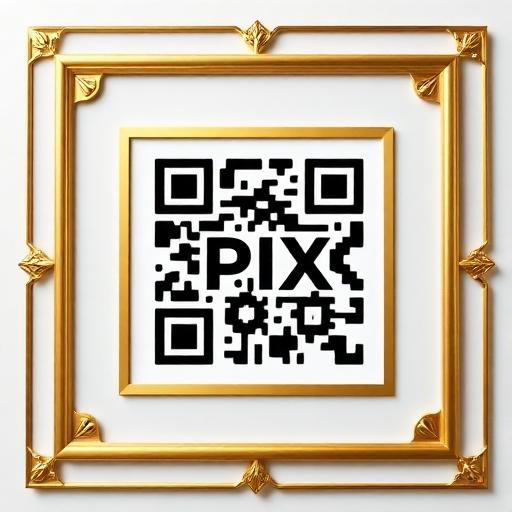
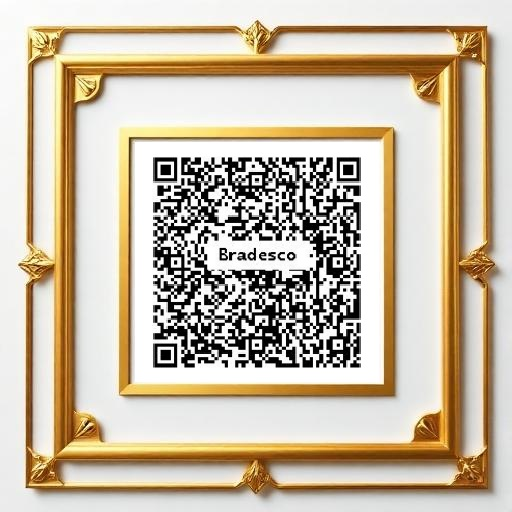
add novos itens

Changed region(s): [[0.2812, 0.2812, 0.7188, 0.7188]]

diff --git a/src/pages/Index.tsx b/src/pages/Index.tsx
@@ -10,6 +10,21 @@ import netflixFund from "@/assets/netflix-fund.jpg";
 import remotePeace from "@/assets/remote-peace.jpg";
 import honeymoon from "@/assets/honeymoon.jpg";
 import therapy from "@/assets/therapy.jpg";
+import roloMacarrao from "@/assets/rolo-macarrão.png";
+import capaceteRoloMacarrao from "@/assets/capacete-macarrao.png";
+import simSenhora from "@/assets/simsenhor.png";
+import videoGame from "@/assets/518xzDbfWbL.png";
+import extintor from "@/assets/extintor.png";
+import paciencia from "@/assets/tolerato-de-paci25C325AAncia.png";
+import nada from "@/assets/nada11-1.png";
+import oculos from "@/assets/oculos.png";
+import antiTpm from "@/assets/antiTpm.png";
+import cobertor from "@/assets/cobertor.png";
+import seguro from "@/assets/seguro.png";
+import desculpa from "@/assets/desculpa.png";
+import quantoCusta from "@/assets/quantoCusta.png";
+import top1 from "@/assets/top1.png";
+import pcGamer from "@/assets/pc.webp";
 
 const Index = () => {
   const [isModalOpen, setIsModalOpen] = useState(false);
@@ -21,42 +36,118 @@ const Index = () => {
   };
 
   const gifts = [
-    {
-      title: "Fundo Pizza de Sexta",
-      description: "Porque todo casal precisa de uma pizza sagrada no fim de semana!",
-      image: pizzaFund,
-    },
-    {
-      title: "Kit Sobrevivência Conjugal",
-      description: "Pacote completo para sobreviver aos primeiros anos juntos com humor!",
-      image: survivalKit,
-    },
-    {
-      title: "Netflix & Discussão Zero",
-      description: "Garantir que nunca falte série pra assistir juntos (e debater depois)!",
-      image: netflixFund,
-    },
-    {
-      title: "Tratado de Paz do Controle Remoto",
-      description: "Para evitar guerras desnecessárias pela escolha do canal!",
-      image: remotePeace,
-    },
-    {
-      title: "Lua de Mel Atrasada",
-      description: "Aquela viagem dos sonhos que ficou pra depois... agora pode acontecer!",
-      image: honeymoon,
-    },
-    {
-      title: "Terapia de Casal (Preventiva)",
-      description: "Porque prevenir é melhor que remediar... e rir é o melhor remédio!",
-      image: therapy,
-    },
-  ];
+  {
+    title: "Rolo de Macarrão Para Noiva",
+    description: "Ferramenta multiuso: culinária e controle emocional.",
+    image: roloMacarrao,
+  },
+  {
+    title: "Capacete Contra Rolo de Macarrão Para o Noivo",
+    description: "Equipamento de segurança para o noivo prevenido",
+    image: capaceteRoloMacarrao,
+  },
+  {
+    title: "PC Gamer da Paz Conjugal",
+    description: "Equipado com botão de emergência: pausa automática quando ela chama.",
+    image: pcGamer,
+  },
+  {
+    title: "Curso Intensivo de Sim, Senhora!",
+    description: "100% de aprovação entre as noivas",
+    image: simSenhora,
+  },
+  {
+    title: "Alvará Para Jogar Videogame",
+    description: "Documento raro e de grande valor sentimental.",
+    image: videoGame,
+  },
+  {
+    title: "Extintor de DR",
+    description: "Apague incêndios conjugais com uma boa dose de humor.",
+    image: extintor,
+  },
+  {
+    title: "Pote da Paciência",
+    description: "Dura pouco, mas é muito útil",
+    image: paciencia,
+  },
+  {
+    title: "Curso de Interpretação de Indiretas",
+    description: "Entendendo o que o “nada” significa.",
+    image: nada,
+  },
+  {
+    title: "Óculos da Compreensão",
+    description: "Veja o ponto de vista do parceiro claramente",
+    image: oculos,
+  },
+  {
+    title: "Plano Emergencial Anti-TPM",
+    description: "Chocolates, elogios, e silêncio estratégico",
+    image: antiTpm,
+  },
+  {
+    title: "Cobertor Para o Noivo",
+    description: "Pois a noiva está sempre coberta de razão",
+    image: cobertor,
+  },
+  {
+    title: "Seguro Contra Respostas Erradas",
+    description: "Cobertura completa para “tô gorda?” e “lembrou da data?”",
+    image: seguro,
+  },
+  {
+    title: "Assinatura Vitalícia de “Desculpa, Amor”",
+    description: "Sem cancelamento”",
+    image: desculpa,
+  },
+  {
+    title: "Só Pra Não Dizer Que Eu Não Dei Nada",
+    description: "Para não passar em branco",
+    image: quantoCusta,
+  },
+  {
+    title: "Uiii, Ele Quer Ser o Melhor",
+    description: "Para aquele amigo que gosta de ser TOP 1 em tudo",
+    image: top1,
+  },
+  {
+    title: "Fundo Pizza de Sexta",
+    description: "Porque todo casal precisa de uma pizza sagrada no fim de semana!",
+    image: pizzaFund,
+  },
+  {
+    title: "Kit Sobrevivência Conjugal",
+    description: "Pacote completo para sobreviver aos primeiros anos juntos com humor!",
+    image: survivalKit,
+  },
+  {
+    title: "Netflix & Discussão Zero",
+    description: "Garantir que nunca falte série pra assistir juntos (e debater depois)!",
+    image: netflixFund,
+  },
+  {
+    title: "Tratado de Paz do Controle Remoto",
+    description: "Para evitar guerras desnecessárias pela escolha do canal!",
+    image: remotePeace,
+  },
+  {
+    title: "Lua de Mel Atrasada",
+    description: "Aquela viagem dos sonhos que ficou pra depois... agora pode acontecer!",
+    image: honeymoon,
+  },
+  {
+    title: "Terapia de Casal (Preventiva)",
+    description: "Porque prevenir é melhor que remediar... e rir é o melhor remédio!",
+    image: therapy,
+  },
+];
+
 
   return (
     <div className="min-h-screen bg-background">
       {/* Hero Section */}
-      <section 
+      <section
         className="relative py-20 px-4 overflow-hidden"
         style={{
           backgroundImage: `url(${heroBackground})`,
@@ -65,36 +156,36 @@ const Index = () => {
         }}
       >
         <div className="absolute inset-0 bg-gradient-hero opacity-90" />
-        
+
         <div className="container mx-auto max-w-6xl relative z-10">
           <div className="flex flex-col md:flex-row items-center gap-8 md:gap-12">
             <div className="w-full md:w-1/2 flex justify-center">
               <div className="relative">
                 <div className="absolute inset-0 bg-accent/20 blur-3xl rounded-full" />
-                <img 
-                  src={coupleImage} 
+                <img
+                  src={coupleImage}
                   alt="Gabriel e Denise"
                   className="relative rounded-2xl shadow-elegant max-w-sm w-full border-4 border-primary-foreground/20"
                 />
               </div>
             </div>
-            
+
             <div className="w-full md:w-1/2 text-center md:text-left">
               <div className="inline-flex items-center gap-2 mb-4 bg-accent/20 px-4 py-2 rounded-full">
                 <Heart className="w-5 h-5 text-accent fill-accent animate-pulse" />
                 <span className="text-primary-foreground font-medium">Lista de Presentes</span>
               </div>
-              
+
               <h1 className="text-4xl md:text-5xl lg:text-6xl font-bold text-primary-foreground mb-4 leading-tight">
-                Gabriel várias situações<br />
-                <span className="text-accent">&</span><br />
-                Denise transtorno
+                Gabriel
+                <span className="text-accent"> & </span>
+                Denise
               </h1>
-              
+
               <p className="text-lg md:text-xl text-primary-foreground/90 mb-6">
                 Presentes com muito amor... e muito humor! 😄
               </p>
-              
+
               <div className="h-1 w-24 bg-accent rounded-full mx-auto md:mx-0" />
             </div>
           </div>
@@ -137,7 +228,7 @@ const Index = () => {
         </div>
       </footer>
 
-      <GiftModal 
+      <GiftModal
         isOpen={isModalOpen}
         onClose={() => setIsModalOpen(false)}
         giftTitle={selectedGift}

diff --git a/src/components/GiftModal.tsx b/src/components/GiftModal.tsx
@@ -1,4 +1,10 @@
-import { Dialog, DialogContent, DialogDescription, DialogHeader, DialogTitle } from "@/components/ui/dialog";
+import {
+  Dialog,
+  DialogContent,
+  DialogDescription,
+  DialogHeader,
+  DialogTitle,
+} from "@/components/ui/dialog";
 import { Button } from "@/components/ui/button";
 import { Input } from "@/components/ui/input";
 import { Label } from "@/components/ui/label";
@@ -22,34 +28,73 @@ export const GiftModal = ({ isOpen, onClose, giftTitle }: GiftModalProps) => {
       return;
     }
 
-    const whatsappMessage = `Olá! Eu sou *${name}* e acabei de fazer um presente: *${giftTitle}*!\n\n${message ? `Mensagem: ${message}` : ''}`;
-    const whatsappUrl = `https://wa.me/5511999999999?text=${encodeURIComponent(whatsappMessage)}`;
-    
-    window.open(whatsappUrl, '_blank');
+    const whatsappMessage = `Olá! Eu sou *${name}* e acabei de fazer um presente: *${giftTitle}*!\n\n${
+      message ? `Mensagem: ${message}` : ""
+    }`;
+    const whatsappUrl = `https://wa.me/5544998070146?text=${encodeURIComponent(
+      whatsappMessage
+    )}`;
+
+    window.open(whatsappUrl, "_blank");
     toast.success("Obrigado pelo presente! ❤");
-    
+
     setName("");
     setMessage("");
     onClose();
+  };
+
+  const pixCopiaECola = `00020126800014BR.GOV.BCB.PIX0111427908038030243Obrigado por colaborar com nossa nova
+  vida!5204000053039865802BR5925GABRIEL NATHAN SUEITT
+  QUE6007GUARUJA62070503***63049075`;
+
+  const handleCopyPix = async () => {
+    try {
+      await navigator.clipboard.writeText(pixCopiaECola);
+      toast.success("Código Pix copiado com sucesso! ✅");
+    } catch {
+      toast.error("Não foi possível copiar o código Pix 😢");
+    }
   };
 
   return (
     <Dialog open={isOpen} onOpenChange={onClose}>
       <DialogContent className="sm:max-w-md">
         <DialogHeader>
-          <DialogTitle className="text-primary">Fazer PIX para {giftTitle}</DialogTitle>
+          <DialogTitle className="text-primary">
+            Fazer PIX para {giftTitle}
+          </DialogTitle>
           <DialogDescription className="text-muted-foreground">
             Escaneie o QR Code abaixo para fazer o PIX e depois nos avise!
           </DialogDescription>
         </DialogHeader>
-        
+
         <div className="flex flex-col items-center gap-6 py-4">
-          <div className="rounded-lg overflow-hidden shadow-card border border-border">
-            <img 
-              src={qrcodeImage} 
-              alt="QR Code PIX" 
+          <div className="rounded-lg overflow-hidden shadow-card border border-border p-4 flex flex-col items-center">
+            <img
+              src={qrcodeImage}
+              alt="QR Code PIX"
               className="w-64 h-64 object-cover"
             />
+
+            <div className="w-full mt-4 space-y-2">
+              <Button
+                onClick={handleCopyPix}
+                className="w-full bg-accent hover:bg-accent/90 text-accent-foreground font-semibold"
+              >
+                Copiar código Pix (copia e cola)
+              </Button>
+
+              <Button
+                onClick={() => {
+                  navigator.clipboard.writeText("42790803803");
+                  toast.success("Chave Pix copiada! 📋");
+                }}
+                variant="outline"
+                className="w-full"
+              >
+                Copiar chave Pix
+              </Button>
+            </div>
           </div>
 
           <div className="w-full space-y-4">
@@ -75,7 +120,7 @@ export const GiftModal = ({ isOpen, onClose, giftTitle }: GiftModalProps) => {
               />
             </div>
 
-            <Button 
+            <Button
               onClick={handleSendToWhatsApp}
               className="w-full bg-primary hover:bg-primary/90 text-primary-foreground font-semibold"
             >

diff --git a/src/components/GiftCard.tsx b/src/components/GiftCard.tsx
@@ -13,8 +13,8 @@ export const GiftCard = ({ title, description, image, onGift }: GiftCardProps) =
   return (
     <Card className="overflow-hidden transition-all duration-300 hover:shadow-elegant hover:-translate-y-1 bg-gradient-card border-border/50">
       <div className="aspect-square overflow-hidden bg-muted">
-        <img 
-          src={image} 
+        <img
+          src={image}
           alt={title}
           className="w-full h-full object-cover transition-transform duration-300 hover:scale-110"
         />
@@ -24,7 +24,7 @@ export const GiftCard = ({ title, description, image, onGift }: GiftCardProps) =
         <CardDescription className="text-muted-foreground">{description}</CardDescription>
       </CardHeader>
       <CardFooter>
-        <Button 
+        <Button
           onClick={onGift}
           className="w-full bg-accent hover:bg-accent/90 text-accent-foreground font-semibold"
         >
